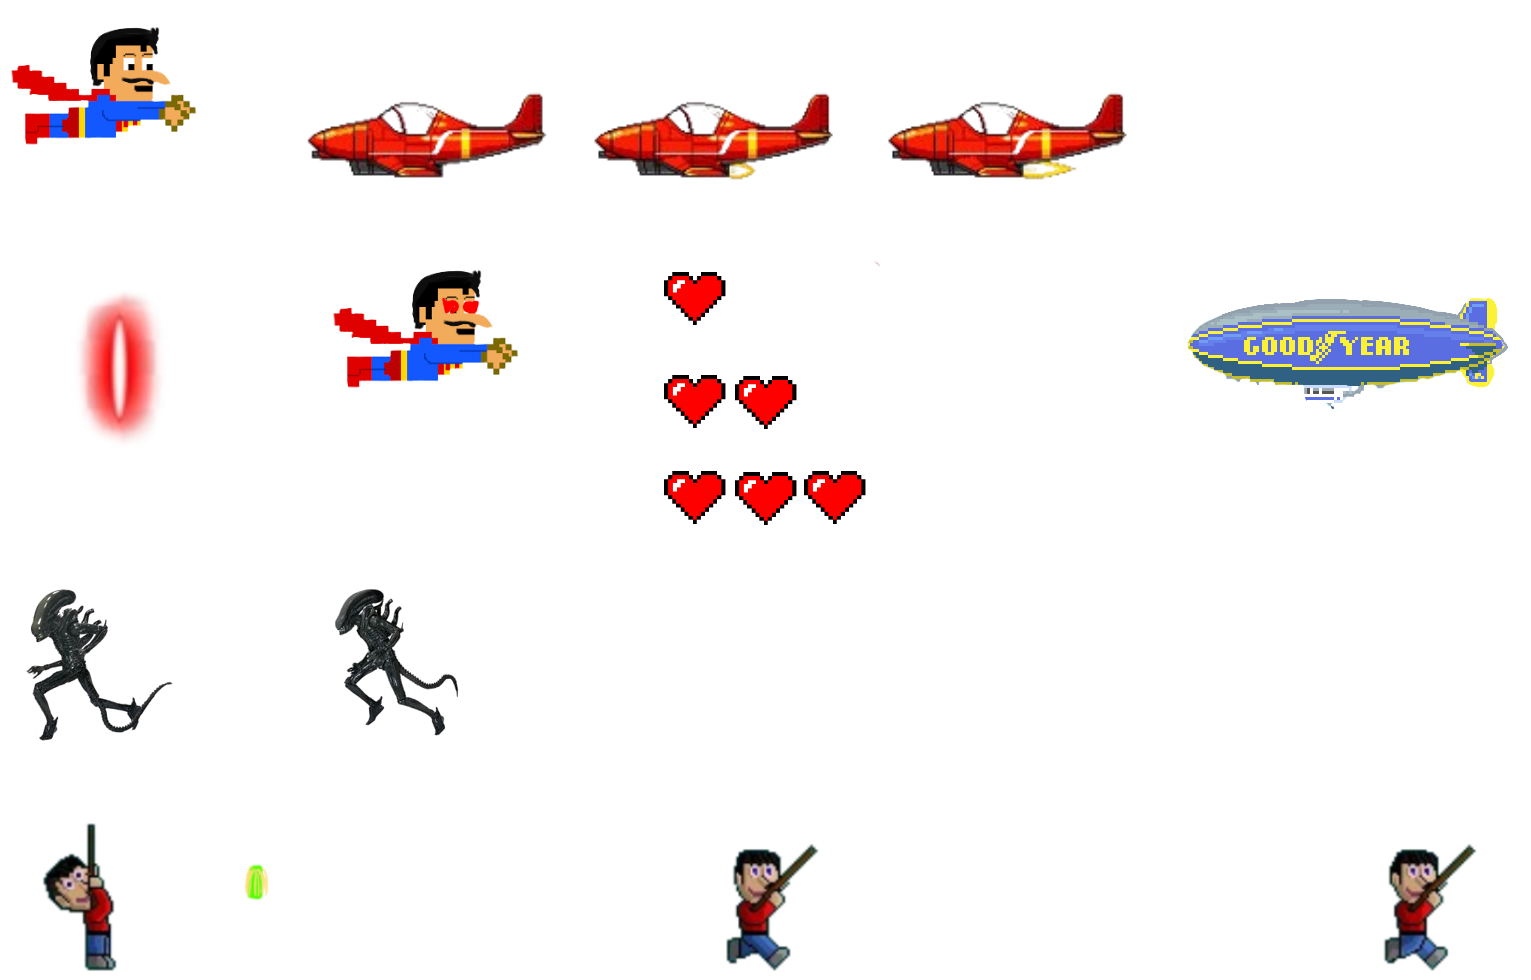
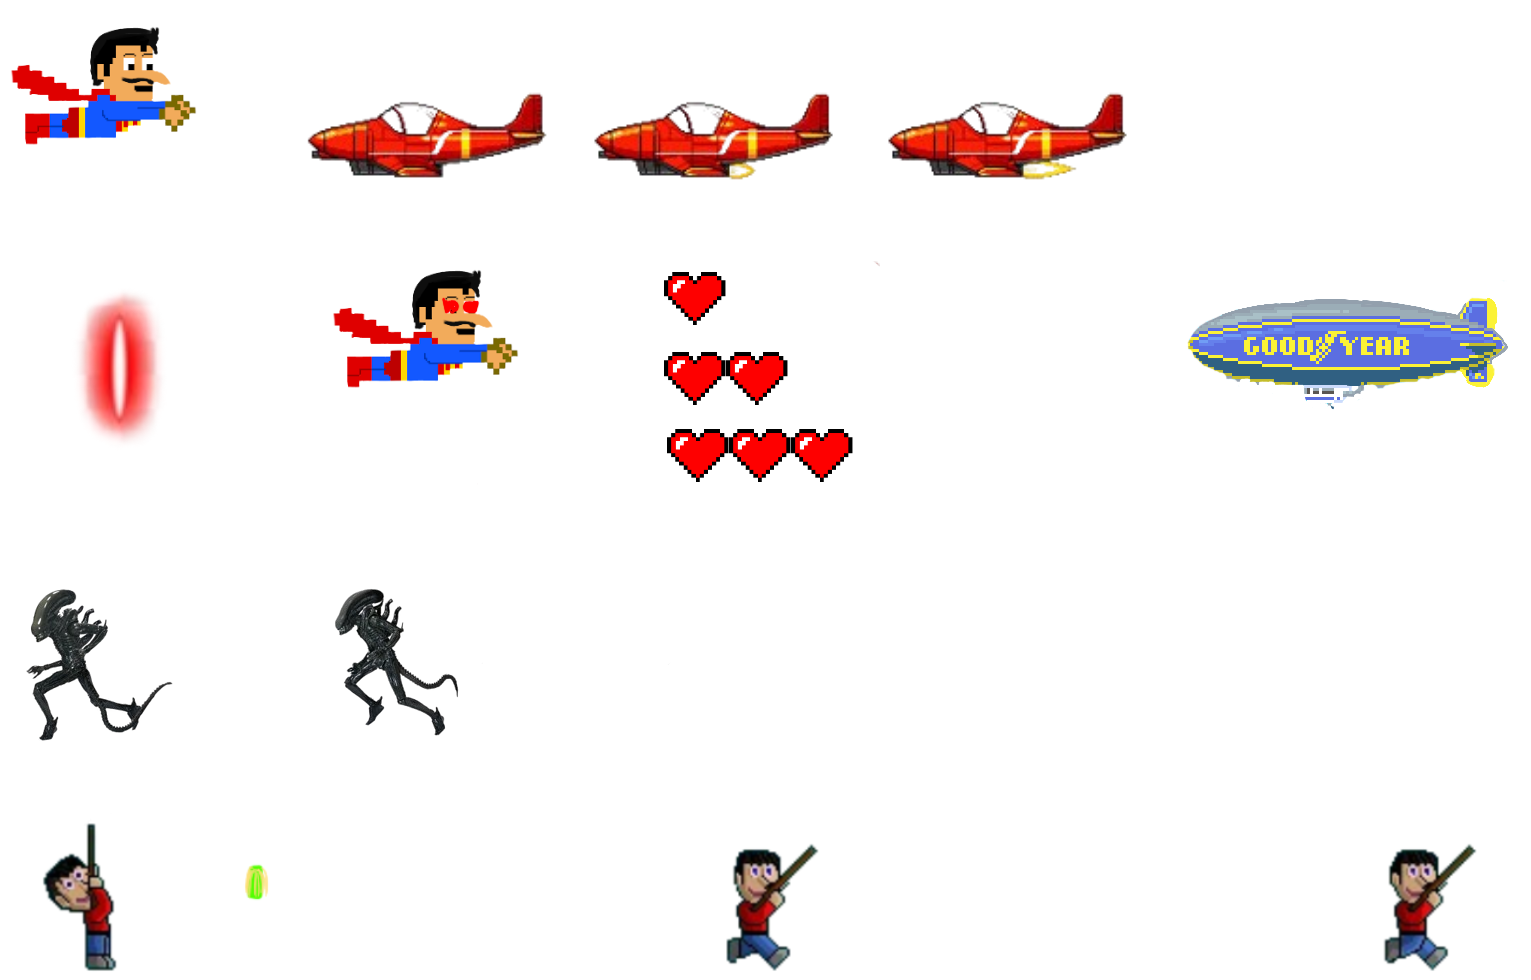
setting up display of hearts

Changed region(s): [[0.4298, 0.3367, 0.5833, 0.551]]

diff --git a/9thDecemberOopProject/HealthDisplay.hpp b/9thDecemberOopProject/HealthDisplay.hpp
@@ -1,0 +1,19 @@
+#include <SDL.h>
+#include <vector>
+#include <iostream>
+#include "health.hpp"
+
+class HealthDisplay{
+    private:
+    SDL_Rect srcRect;
+    SDL_Rect moverRect;
+
+
+    public:
+
+    HealthDisplay();
+
+    void RedrawHearts(int heartsleft) ;
+
+
+}

diff --git a/9thDecemberOopProject/HealthDisplay.cpp b/9thDecemberOopProject/HealthDisplay.cpp
@@ -1,0 +1,19 @@
+#include "HealthDisplay.hpp"
+
+
+
+
+HealthDisplay::HealthDisplay(){
+
+
+
+
+};
+
+void HealthDisplay::RedrawHearts(int heartsleft){
+
+
+
+
+
+};
